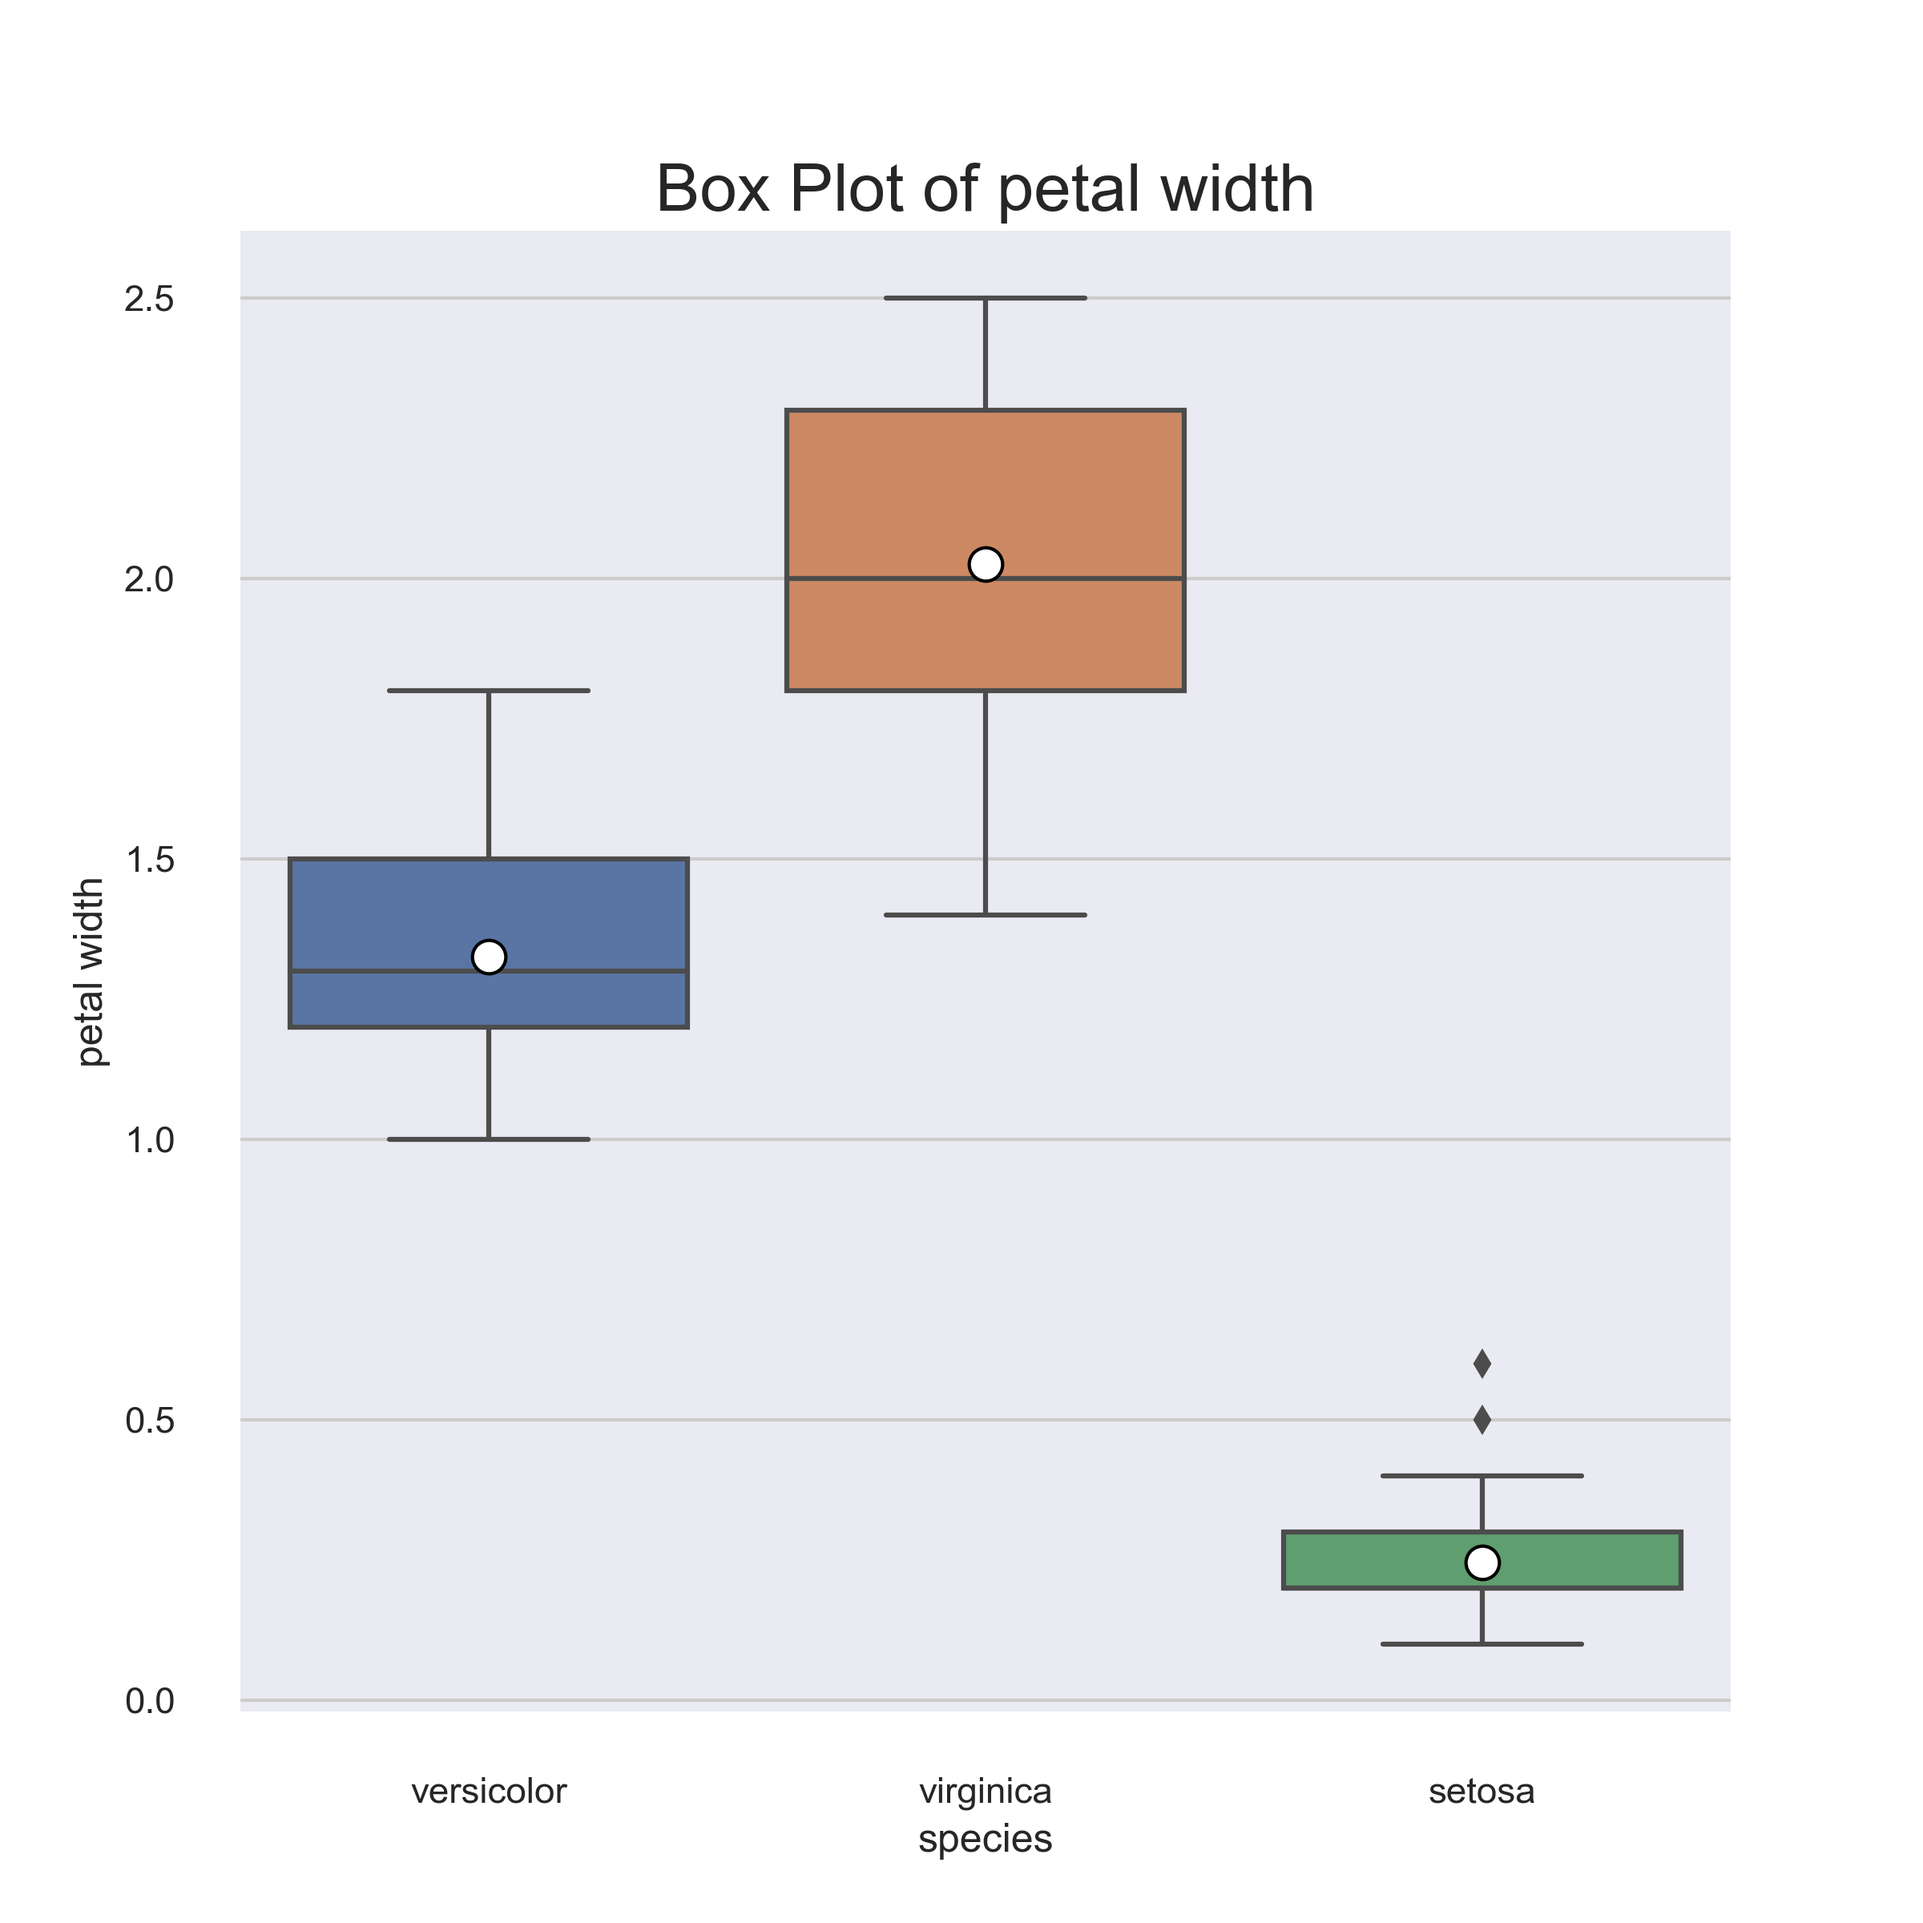
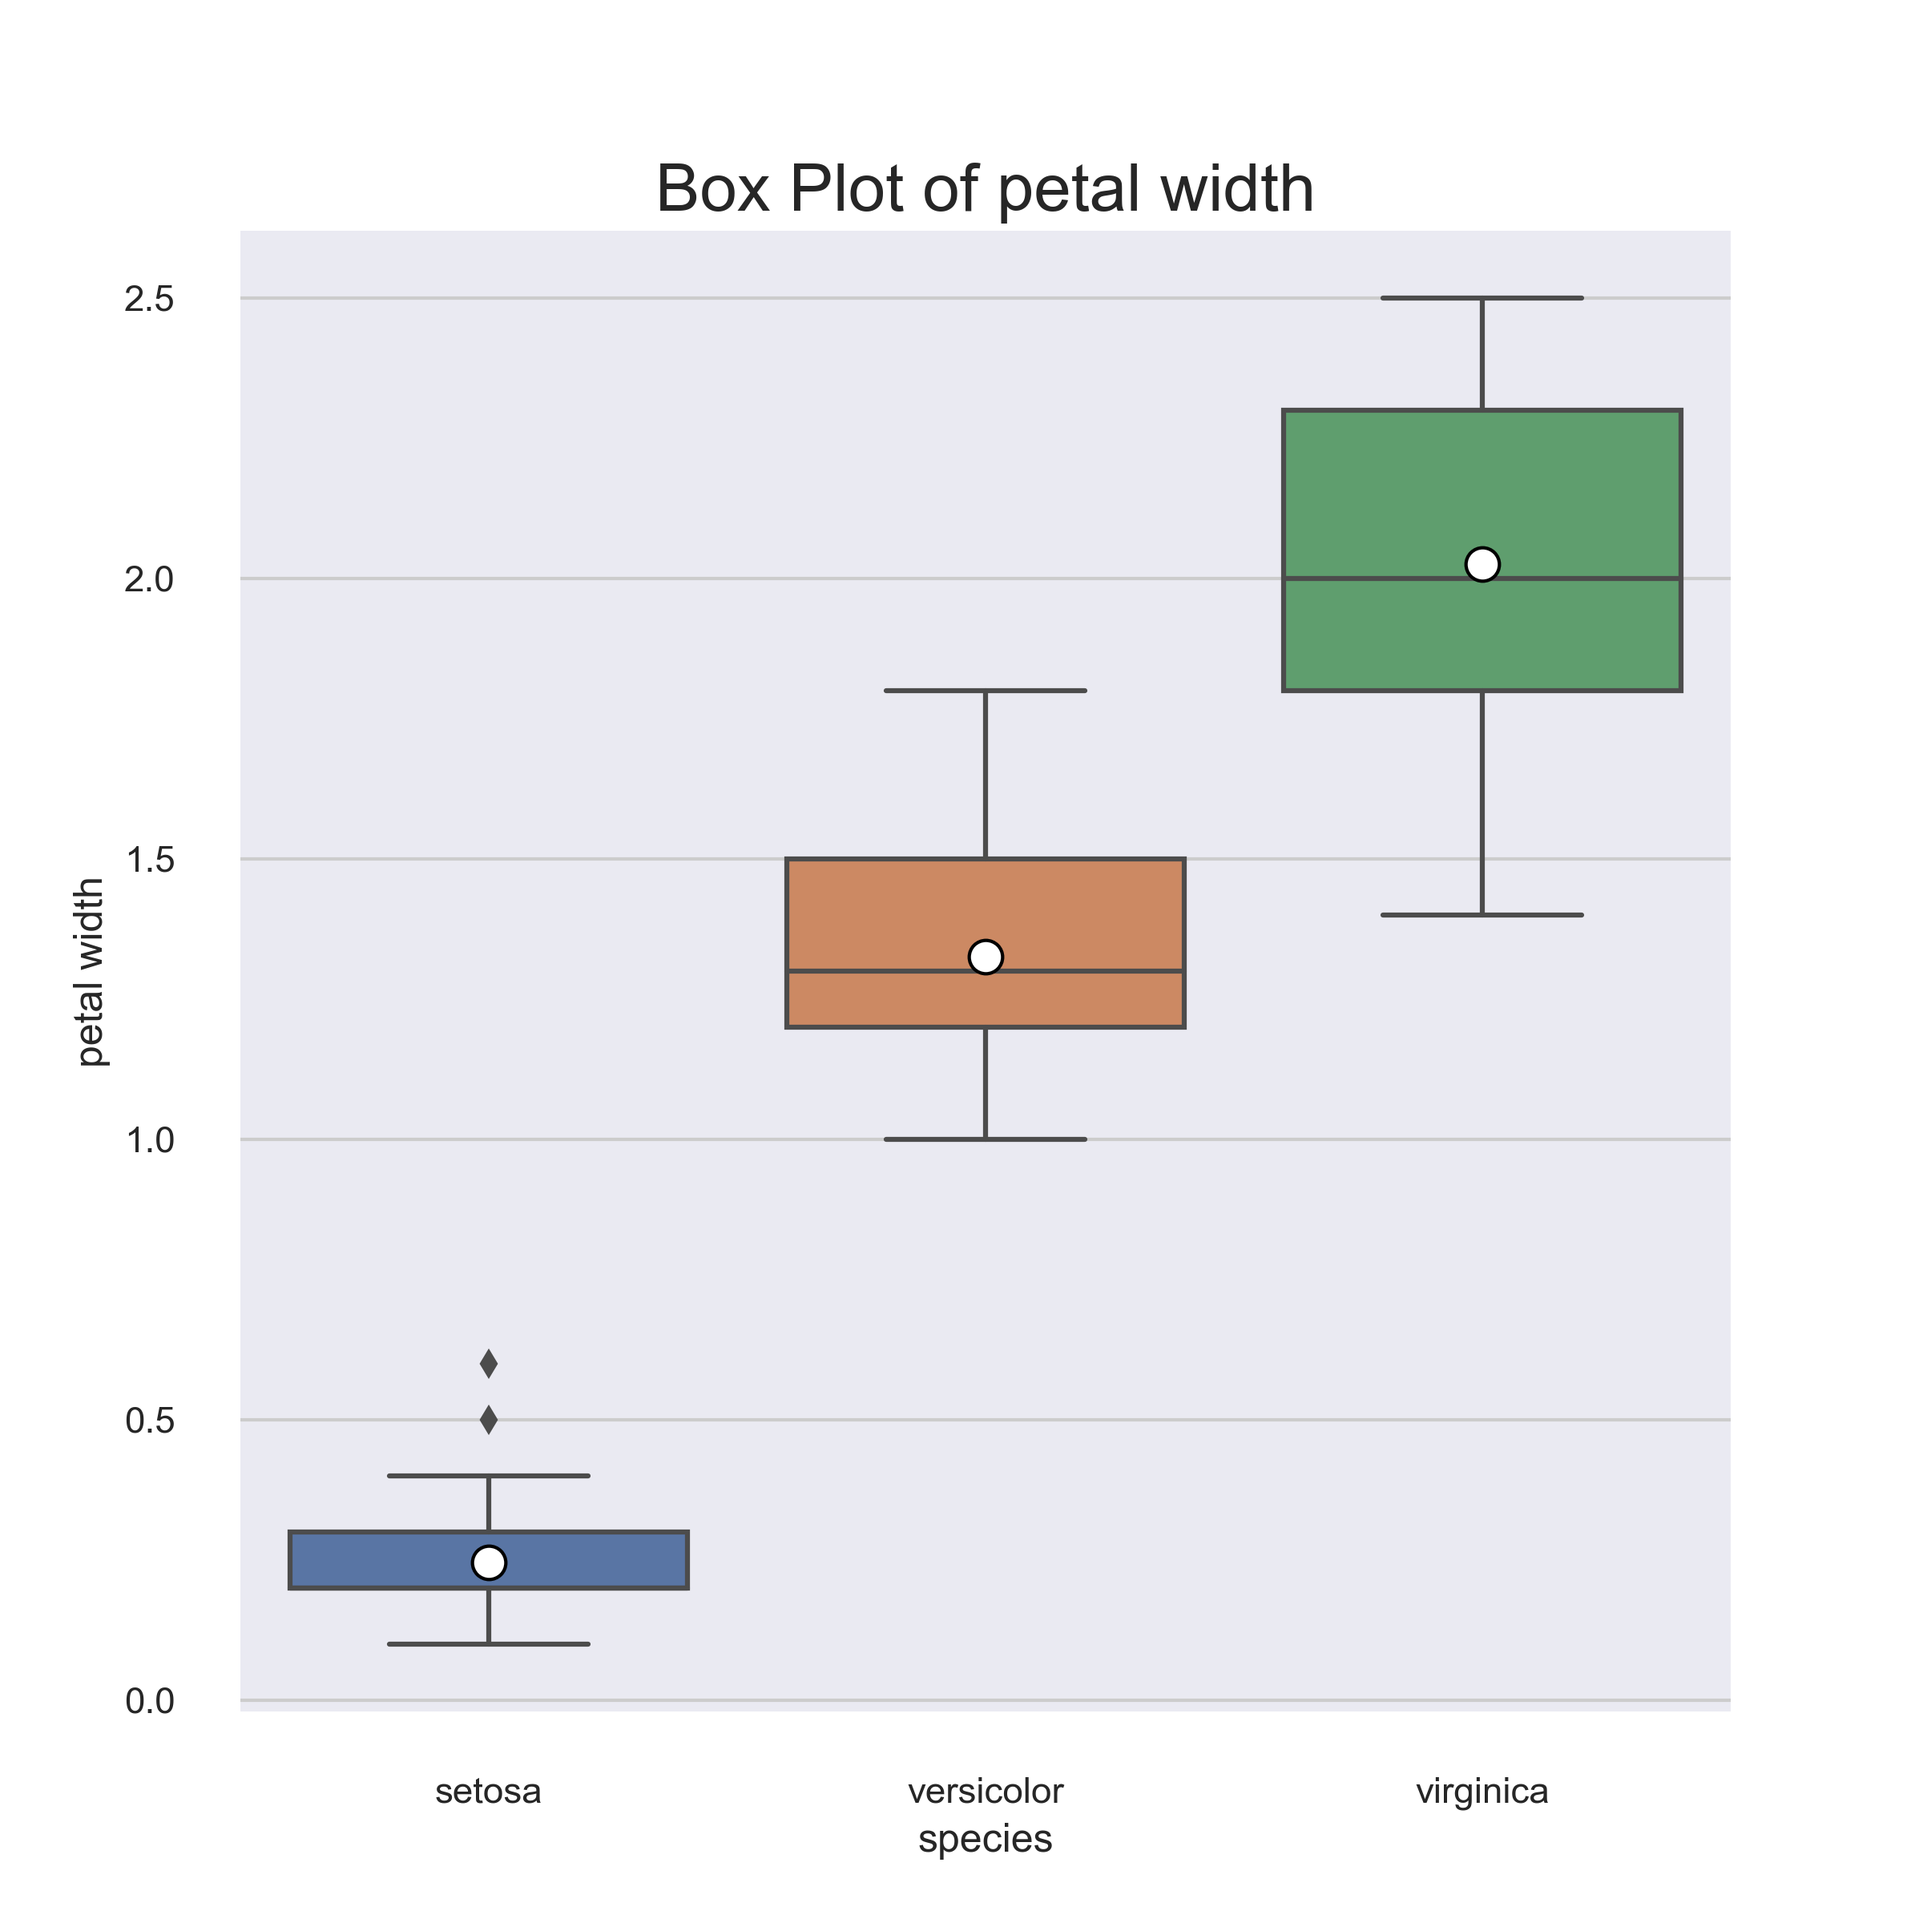
Modified order of attribute labels on box plots

diff --git a/pands-project2021/analysis1.py b/pands-project2021/analysis1.py
@@ -26,7 +26,7 @@ data.columns = ['sepal length', 'sepal width', 'petal length', 'petal width', 's
 print(data.head())
 
 
-
+# reference: https://pandas.pydata.org/docs/reference/api/pandas.DataFrame.describe.html
 print ('\n' * 3)
 print ('\t\t********** Summary Statistics **********')
 print ('\n')
@@ -44,6 +44,7 @@ print(data.isnull().sum())
 dfi.export(data.describe(), 'table_1.png')
 
 # Splitting the data set by species of flower and describing the data for each group individually then saving to folder as png.
+# reference: https://pandas.pydata.org/pandas-docs/stable/user_guide/cookbook.html
 setosa = data.loc[data.species== 'setosa',:]
 dfi.export(setosa.describe(), 'table_2.png')
 versicolor = data.loc[data.species== 'versicolor',:]
@@ -63,15 +64,15 @@ for column in data.columns[:4]:  # Loop over all columns except 'Species'
     sns.set(style='ticks')
     sns.boxplot(x='species',
             y=column,                                       # column is chosen from iris data set based on loop iteration
-            data=data, 
-            order=['versicolor', 'virginica', 'setosa'],
-            showmeans = True, 
-            meanprops={'marker':'o',
+            data=data,                                      # Specify data to be used (data dataFrame)
+            order=['setosa', 'versicolor', 'virginica'],
+            showmeans = True,                               # Show a mean marker on the boxplot
+            meanprops={'marker':'o',                        # Modify the mean marker attributes to make it stand out.
                        'markerfacecolor':'white', 
                        'markeredgecolor':'black',
                        'markersize':'10'})
 
-    # sns.boxplot(x='species', y=column, data=data)  # column is chosen here
+    # Format the box plots (remove spines from top and bottom, add titles, specify font size of title, specify size of plot and save to folder)
     sns.despine(offset=10, trim=True)
     plt.title('Box Plot of {}'.format(column), fontsize=20)
     fig.set_size_inches(8, 8)

diff --git a/pands-project2021/README.md b/pands-project2021/README.md
@@ -145,12 +145,12 @@ the column headers which we changed.
 
 ## Descriptive Statistics
 
-Calculating descriptive statistics is often the first step in data analysis one
+Calculating descriptive statistics is often the first step in data analysis once
 a data set has been loaded. Descriptive statistics are values that characterise
 features of specific data presented in table or graph form. [9]
 
-Minitab provides a mean option for descriptive statistics which presents the
-user with the following summary table:
+Minitab provides an option for descriptive statistics which presents the user
+with the following summary table:
 
 ![Table 1. Minitab Descriptive Statistics for Iris Data Set.
 ](media/13a77d66c11b4dbb5e39d48f194a8ea7.png)
@@ -217,6 +217,77 @@ generated](media/d1c99c09037f58fa075ecef6d7554463.png)
 
 **Table 6. Descriptive Statistics for Virginica Species**
 
+## Graphical Displays
+
+We use graphical displays as they complement tabular data that we obtain from
+descriptive statistics. Graphs are often easier to interpret and better suited
+to identifying patterns in the underlying data set than tables. We are going to
+further analyse the Iris data set using Box Plots, scatter plots, distribution
+plots (KDE) and pair plots using both Minitab and Python.
+
+### Boxplots
+
+Also known as box and whisker plots, the boxplot displays values of the
+quantiles using a rectangular box. The top and bottom ends of the box illustrate
+quantiles one and three while the line drawn across the middle of the box
+depicts the median or quantile two. The lines extending outwards from the
+rectangular box are known as the whiskers. These whiskers represent the ranges
+for the bottom 25% and top 25% of data. If there are any outliers in the data
+these will be represented by asterisks.
+
+![box plot](media/249484119e9c58d1c989891bfb2ee52a.png)
+
+**Figure 1. Anatomy of the box plot [14].**
+
+Using Minitab we can create boxplots for all the variables (sepal length, sepal
+width, petal length and petal width) then colour each of the variables by an
+attribute – in this case we’ve coloured by species. We can also add a mean
+symbol to each box plot.
+
+![Chart, box and whisker chart Description automatically
+generated](media/51258535d4d903bf3332907681f9334b.png)
+
+**Figure 2. Box plots of the Iris Data Set variables using Minitab.**
+
+To replicate this output in Python we make use of the Seaborn library to create
+the box plots. Initially I had separate lines of code to display each box plot
+separately but was able to research a method to use a for loop to iterate
+through each of the columns in a DataFrame plotting a box plot for each one and
+saving these plots to a folder as .png files.[15]
+
+~~~~~~~~~~~~~~~~~~~~~~~~~~~~~~~~~~~~~~~~~~~~~~~~~~~~~~~~~~~~~~~~~~~~~~~~~~~~~~~~
+sns.set(style='darkgrid')
+
+ column in data.columns[:4]:  
+    sns.set()
+    fig, ax = plt.subplots()
+    sns.set(style='ticks')
+    sns.boxplot(x='species',
+            y=column,                                       
+            data=data,                                      
+            order=['versicolor', 'virginica', 'setosa'],
+            showmeans = True,                               
+            meanprops={'marker':'o',                        
+                       'markerfacecolor':'white', 
+                       'markeredgecolor':'black',
+                       'markersize':'10'})
+
+    
+    sns.despine(offset=10, trim=True)
+    plt.title('Box Plot of {}'.format(column), fontsize=20)
+    fig.set_size_inches(8, 8)
+    plt.savefig('Boxplot_of_{}.png'.format(column), dpi=300)  
+plt.close()
+~~~~~~~~~~~~~~~~~~~~~~~~~~~~~~~~~~~~~~~~~~~~~~~~~~~~~~~~~~~~~~~~~~~~~~~~~~~~~~~~
+
+This block of code produces four separate boxplots which are saved to a folder.
+The boxplots produced are displayed below:
+
+![Chart, box and whisker chart Description automatically
+generated](media/f31626fb9919332ba3dd78282b21cb1c.png)
+
+**Figure 3. Box plots of the Iris Data Set variables using Python.**
+
 [1] Minitab (2021) *Single User Annual Subscription License.* Available at:
 <https://store.minitab.com/781/purl-minitab> Accessed (04 April 2021)
 
@@ -266,3 +337,13 @@ April 2021)
 Available at:
 [https://stackoverflow.com/questions/35634238/how-to-save-a-pandas-dataframe-table-as-a-png/63387275\#63387275](https://stackoverflow.com/questions/35634238/how-to-save-a-pandas-dataframe-table-as-a-png/63387275#63387275)
 Accessed (02 April 2021)
+
+[14] The Data Visualization Catalog (2021). Box and Whisker Plot. Available at:
+[https://datavizcatalogue.com/methods/box_plot.html Accessed
+(17](https://datavizcatalogue.com/methods/box_plot.html%20Accessed%20(17) April
+2021)
+
+[15] Visualization - how to create multiple subplots( scatterplot) in for loop -
+Data Science Stack Exchange (no date). Available at:
+<https://datascience.stackexchange.com/questions/84840/how-to-create-multiple-subplots-scatterplot-in-for-loop>
+(Accessed: 3 April 2021).
